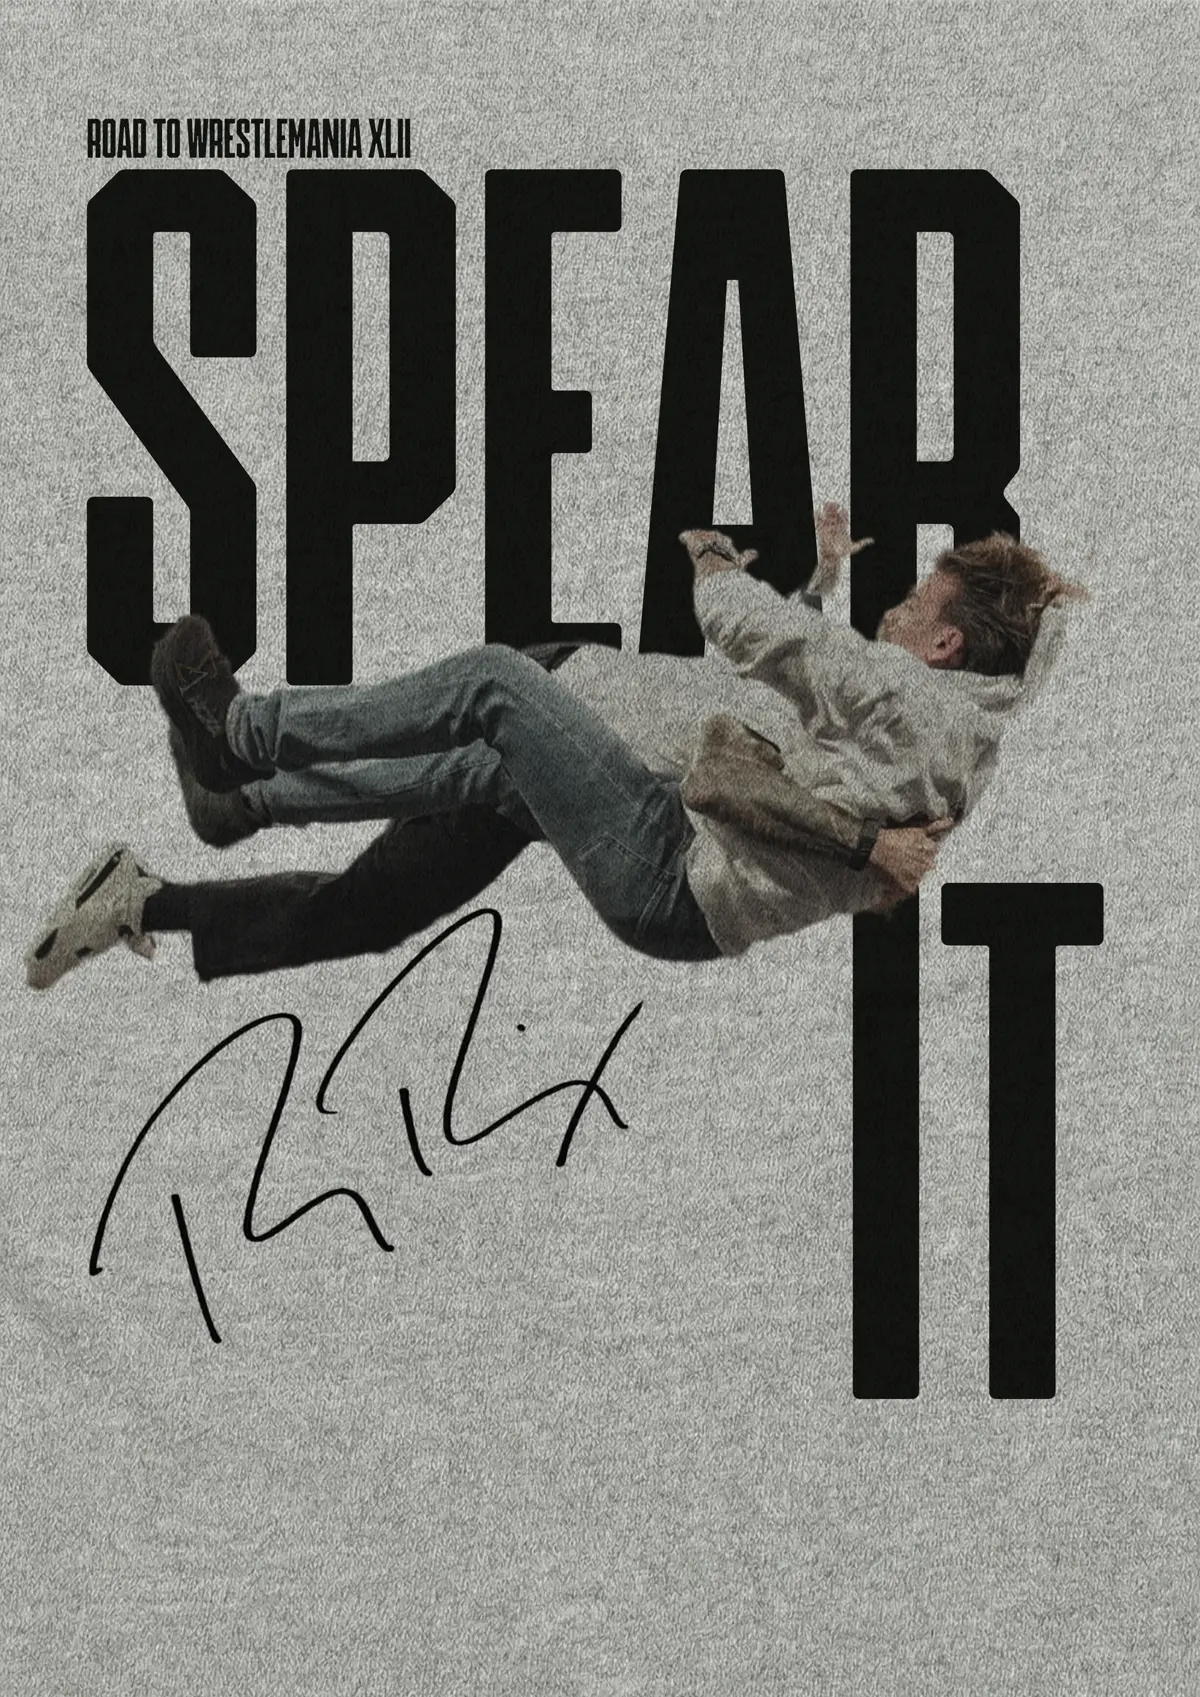
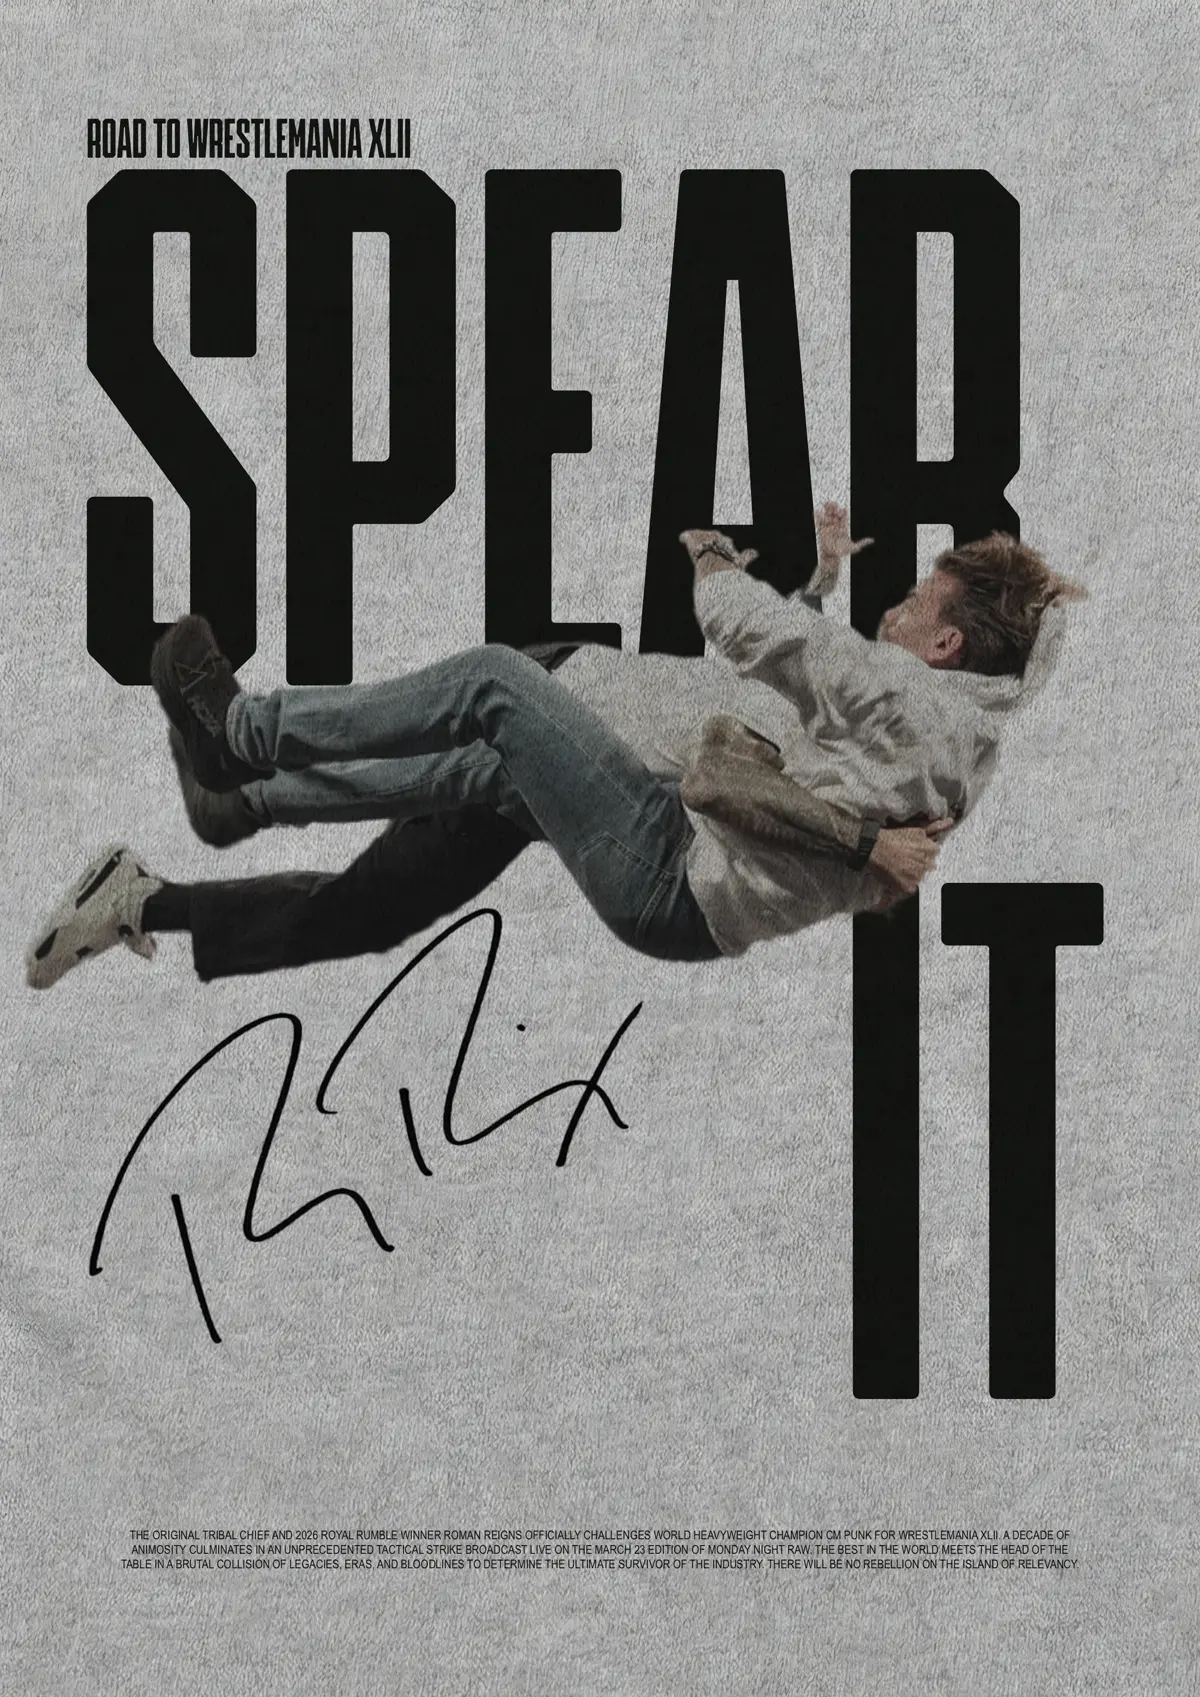
feat: update SPEARIT poster and poster descriptions

diff --git a/src/data/projects.js b/src/data/projects.js
@@ -111,7 +111,7 @@ export const projects = [
         category: 'Art',
         color: '#FF0055', // Neon Pink/Red
         lightColor: '#be123c', // Rose-700
-        description: "Whenever I'm burnout from coding, I like to do some graphic design. I've been using Photopea for a while now, and it's been an absolute blast to just let my creativity flow.",
+        description: "I might be a system developer, but I'm also a graphic designer (polymathy, baby!). These are some of my designs---mostly posters. See why I'm good at UI/UX.",
         link: null,
         techStack: ['Photopea', 'Figma'],
         stamp: PenTool,
@@ -121,19 +121,19 @@ export const projects = [
                 type: 'design',
                 src: '/assets/designs/PIPEBOMB.webp',
                 title: 'THE PIPEBOMB',
-                description: "A tribute to CM Punk's iconic Pipebomb promo, capturing the gritty reality of that revolutionary moment."
+                description: "\"I have a lot of things I want to get off my chest.\" Sitting menancingly with his legs crossed, CM Punk delivered one of the most iconic promos of all time."
             },
             {
                 type: 'design',
                 src: '/assets/designs/STORY.webp',
                 title: 'STORY, FINISHED.',
-                description: "\"Sorry it took me so long.\" A triumphant acknowledgment of Cody Rhodes finishing his long cinematic journey at Wrestlemania XL."
+                description: "\"Sorry it took me so long.\" This one is for you, Dusty. Cody Rhodes finally finishing his story and becoming the first Rhodes to win a WWE championship at Wrestlemania XL."
             },
             {
                 type: 'design',
                 src: '/assets/designs/IQUIT.webp',
                 title: 'I QUIT',
-                description: "\"I feed our whole family with this title.\" A brutal, uncompromising design showcasing the finality and absolute destruction of an 'I Quit' match."
+                description: "\"I feed our whole family with this title.\" Roman Reigns becoming the tribal chief after brutally beating down Jey Uso. Peak cinema."
             },
             {
                 type: 'design',
@@ -151,19 +151,19 @@ export const projects = [
                 type: 'design',
                 src: '/assets/designs/ENDOFANERA.webp',
                 title: 'END OF AN ERA',
-                description: "Capturing the emotional weight of the iconic Hell in a Cell clash between titans, marking truly the end of an era."
+                description: "\"STREAK'S OVER, STREAK'S OVER!\" The match marking the end of the attitude era. The Undertaker kicking out of sweet chin music + pedigree is something I'll never forget."
             },
             {
                 type: 'design',
                 src: '/assets/designs/SHIELD.webp',
                 title: 'IMPLOSION',
-                description: "\"There's always a plan B.\" A tactical, high-contrast homage to the architectural destruction of the most dominant faction of the modern era."
+                description: "\"There's always a plan B.\" Remember when Seth Rollins betrayed The Shield? The effect is still haunting us till this day."
             },
             {
                 type: 'design',
                 src: '/assets/designs/Wrestlemania.webp',
                 title: 'VICTORY HAS A PRICE',
-                description: "\"How far will you go?\" Capturing the epic weight and physical toll of reaching the summit at Wrestlemania."
+                description: "\"How far will you go?\" Randy busted Cody's head open, CM Punk said he'd bur Roman next to his fateher. Capturing the epic weight and physical toll of reaching the summit at Wrestlemania."
             },
 
             // Phase 2: High-Fidelity Cinematic Renders
@@ -177,7 +177,7 @@ export const projects = [
                 type: 'design',
                 src: '/assets/designs/LAKnight.webp',
                 title: 'YEAH!',
-                description: "A high-energy tribute poster for the megastar LA Knight. Let me talk to ya!"
+                description: "Streetwear-styled poster for the Megastar. Loved it so much I ended up prining it on a notebook. YEAH!"
             },
             {
                 type: 'design',
@@ -195,7 +195,7 @@ export const projects = [
                 type: 'design',
                 src: '/assets/designs/SPEARIT.webp',
                 title: 'SPEAR IT',
-                description: "\"Road to Wrestlemania XLII.\" A cinematic, typographic tribute to the most devastating move in sports entertainment, capturing the raw impact of a perfectly executed spear."
+                description: "I was singing 'Beat It', then my sister said 'Spear It'. The poster made itself."
             },
 
             // Phase 3: Artistic, Personal & Experimental
@@ -203,13 +203,13 @@ export const projects = [
                 type: 'design',
                 src: '/assets/designs/Poetry.webp',
                 title: 'POETRY',
-                description: "A surrealist typographic exploration of an emerald green color scheme, inspired by the verses of Abdulrahman Mostafa."
+                description: "A surrealist typographic exploration of an emerald green color scheme, inspired by the verses of my friend Abdulrahman Mostafa."
             },
             {
                 type: 'design',
                 src: '/assets/designs/Fin.webp',
                 title: 'FIN.',
-                description: "A surreal, double-exposure composition marking the end of a chapter taking the EMAM Research Center leap."
+                description: "I made this poster to mark the end of my journey at EMAM Research Center. It was a bittersweet moment, but I'm proud of what we accomplished there."
             },
             {
                 type: 'design',
@@ -221,13 +221,13 @@ export const projects = [
                 type: 'design',
                 src: '/assets/designs/Eid.webp',
                 title: 'EID CELEBRATION',
-                description: "A festive design celebrating the spirit and joy of Eid."
+                description: "A Sonic The Hedgehog-themed poster for Eid Al-Fitr. Look at Eggman go!"
             },
             {
                 type: 'design',
                 src: '/assets/designs/SonicCU.webp',
                 title: 'SONIC & CO.',
-                description: "Changing the Cairo University atmosphere from summer to autumn, featuring the blue blur himself."
+                description: "Changing the Cairo University atmosphere from summer to autumn because we never have this atmosphere IRL, featuring the blue blur and the gang."
             },
 
             // Phase 4: Grand Finales & Expanded Sets
@@ -235,19 +235,19 @@ export const projects = [
                 type: 'design',
                 src: '/assets/designs/Wargames.webp',
                 title: 'WARGAMES 2025: CIVIL WAR',
-                description: "A 10-piece expansive character poster set mimicking electoral campaign cards for the monumental 2025 Bloodline WarGames event."
+                description: "A really weird project. I don't think I need to say anything else. Just look at it."
             },
             {
                 type: 'design',
                 src: '/assets/designs/1316 - Light.webp',
                 title: '1316: THE LIGHT ERA',
-                description: "A light-themed variant complementing the Roman Reigns scrollytelling project."
+                description: "Started as a minimalist movie poster-ish thingy, ended up with a completely different result. It's a poster for the 4th longest-reigning champion in WWE history."
             },
             {
                 type: 'design',
                 src: '/assets/designs/1316 - Dark.webp',
                 title: '1316: THE DARK ERA',
-                description: "A dark-themed poster inspired by Roman Reigns' historical title reign."
+                description: "Started as a minimalist movie poster-ish thingy, ended up with a completely different result. It's a poster for the 4th longest-reigning champion in WWE history."
             }
         ]
     },
